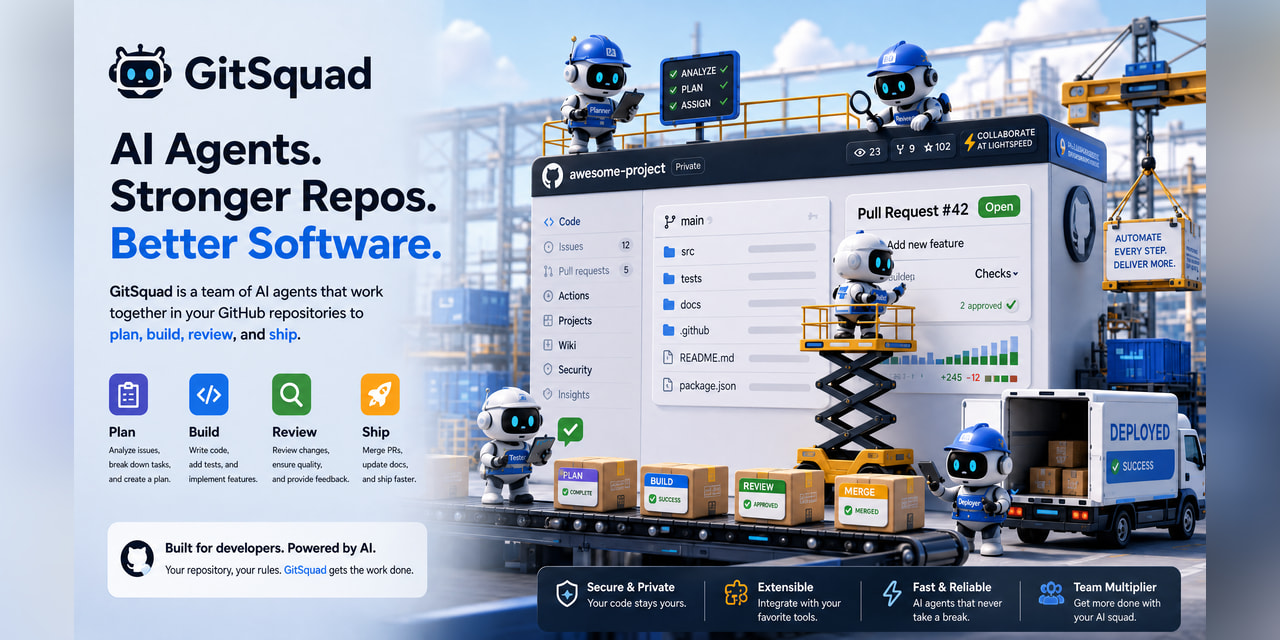
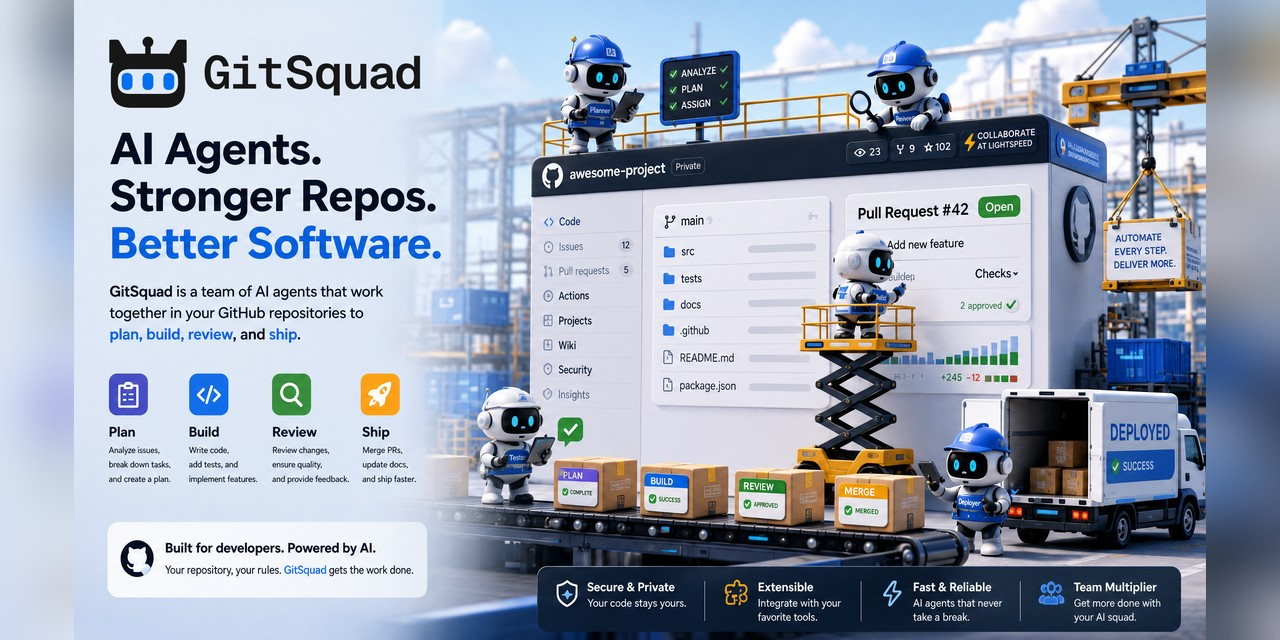
feat(web): a drawn squad-head mark that survives the tab bar
## Why

The only brand mark was web/app/favicon.ico: a 32 px robot head drawn with a
white outline, a gradient visor and cyan eyes. It had no vector master, it
mushed below 24 px, and two of its colours were ones DESIGN.md does not have —
the system is ink plus one blue, and it says in as many words that no sixth
accent may be introduced.

## What changed

- `components/gitsquad-mark.tsx` draws the mark inline: one path for the head,
  one for the three marks in the visor. The head takes `currentColor` and the
  marks take `fill-link`, so the mark follows the text colour around it and
  flips with the theme: ink and blue on light, near-white and the lifted blue on
  dark. One asset covers every ground, including the pinned-dark footer.
- The geometry was chosen against 16 / 20 / 32 px renders rather than on a wall.
  The visor stays a hole, the three marks stay legible as blue at 16 px, and the
  fins and ball antenna degrade to nubs. Rejected on the way: round-tipped horn
  "ears" (they read as cat ears), a hard hat (read as a jar), and a three-slot
  visor with no crown antenna (read as a hardware readout).
- `favicon.ico` is replaced; `icon.svg` and `apple-icon.png` are added so a
  modern browser gets the vector and iOS gets the ink tile. Both are served by
  Next as metadata routes, verified 200.
- The name is set as the identity's own device — `Git` in the mono face, `Squad`
  in the sans, one word — through `GitSquadWordmark`, shared by the marketing
[…]

diff --git a/web/components/gitsquad-mark.tsx b/web/components/gitsquad-mark.tsx
@@ -1,0 +1,55 @@
+// The GitSquad mark — a robot head whose visor holds three marks, the squad.
+//
+// One path per colour, both filled: no strokes, no masks, no filters, so it
+// stays crisp at 16 px and never needs a raster. The head draws in
+// `currentColor` and the three marks take the link token, which is what makes
+// the mark follow the theme the way every other token in the system does —
+// ink with a blue visor on light, near-white with a lifted blue on dark.
+//
+// Decorative by default: it always sits beside the name, so the accessible name
+// belongs to that text. Pass `title` only for a standalone use.
+//
+// The viewBox is the mark's own ink (28 28 200 184), not the masters' padded
+// 256 square, so `size-*` is the mark and the box has no hidden margin to guess
+// at — the same framing `app/icon.svg` uses. In a lockup the symbol reads at
+// 2.17 × the wordmark's cap height; at 20 px that is a `size-6` mark beside
+// 14 px text.
+//
+// Geometry is generated — see docs/brand/wip/heads.py and kitgen.py; the
+// delivered masters are docs/brand/kit/gitsquad-symbol-*.svg.
+const HEAD =
+  "M 32.0 124.0 Q 32.0 72.0 84.0 72.0 L 172.0 72.0 Q 224.0 72.0 224.0 124.0 L 224.0 160.0 Q 224.0 212.0 172.0 212.0 L 84.0 212.0 Q 32.0 212.0 32.0 160.0 Z M 84.6 92.5 Q 86.6 96.0 82.6 96.0 L 32.0 96.0 Q 28.0 96.0 28.0 92.0 L 28.0 40.0 Q 28.0 36.0 32.0 36.0 L 48.0 36.0 Q 52.0 36.0 54.0 39.5 Z M 202.0 39.5 Q 204.0 36.0 208.0 36.0 L 224.0 36.0 Q 228.0 36.0 228.0 40.0 L 228.0 92.0 Q 228.0 96.0 224.0 96.0 L 173.4 96.0 Q 169.4 96.0 171.4 92.5 Z M 114.0 42.0 A 14.0 14.0 0 0 1 128.0 28.0 A 14.0 14.0 0 0 1 142.0 42.0 A 14.0 14.0 0 0 1 128.0 56.0 A 14.0 14.0 0 0 1 114.0 42.0 Z M 121.0 57.0 Q 121.0 52.0 126.0 52.0 L 130.0 52.0 Q 135.0 52.0 135.0 57.0 L 135.0 77.0 Q 135.0 82.0 130.0 82.0 L 126.0 82.0 Q 121.0 82.0 121.0 77.0 Z M 50.0 147.2 Q 50.0 176.0 78.8 176.0 L 177.2 176.0 Q 206.0 176.0 206.0 147.2 L 206.0 140.8 Q 206.0 112.0 177.2 112.0 L 78.8 112.0 Q 50.0 112.0 50.0 140.8 Z";
+const MARKS =
+  "M 60.0 136.0 Q 60.0 122.0 74.0 122.0 L 74.0 122.0 Q 88.0 122.0 88.0 136.0 L 88.0 152.0 Q 88.0 166.0 74.0 166.0 L 74.0 166.0 Q 60.0 166.0 60.0 152.0 Z M 114.0 136.0 Q 114.0 122.0 128.0 122.0 L 128.0 122.0 Q 142.0 122.0 142.0 136.0 L 142.0 152.0 Q 142.0 166.0 128.0 166.0 L 128.0 166.0 Q 114.0 166.0 114.0 152.0 Z M 168.0 136.0 Q 168.0 122.0 182.0 122.0 L 182.0 122.0 Q 196.0 122.0 196.0 136.0 L 196.0 152.0 Q 196.0 166.0 182.0 166.0 L 182.0 166.0 Q 168.0 166.0 168.0 152.0 Z";
+
+export function GitSquadMark({
+  className,
+  title,
+}: {
+  className?: string;
+  title?: string;
+}) {
+  return (
+    <svg
+      viewBox="28 28 200 184"
+      className={className}
+      role={title ? "img" : undefined}
+      aria-label={title}
+      aria-hidden={title ? undefined : true}
+    >
+      {title ? <title>{title}</title> : null}
+      <path fill="currentColor" d={HEAD} />
+      <path className="fill-link" d={MARKS} />
+    </svg>
+  );
+}
+
+// The name, set as the identity's wordmark rather than as three words of copy:
+// `Git` is the machine's voice and takes the mono face, `Squad` is the team's
+// and stays in the sans. One word, so the two halves live in one element —
+// wherever this sits in a `gap-*` flex row, the gap must not fall between them.
+export function GitSquadWordmark() {
+  return (
+    <span><span className="font-mono">Git</span>Squad</span>
+  );
+}

diff --git a/web/app/(app)/layout.tsx b/web/app/(app)/layout.tsx
@@ -2,13 +2,13 @@
 
 import { useEffect, useState, useCallback, useRef, useSyncExternalStore } from "react";
 import { useRouter, usePathname } from "next/navigation";
-import Image from "next/image";
 import { ChevronsUpDown, Plus, Check } from "lucide-react";
 import { api, Workspace } from "@/lib/api";
 import { useApi } from "@/lib/query";
 import { RealtimeProvider } from "@/lib/realtime";
 import { paths, workspaceSlugFromPath } from "@/lib/paths";
 import { WorkspaceAvatar } from "@/components/workspace-avatar";
+import { GitSquadMark } from "@/components/gitsquad-mark";
 import { SidebarNav } from "@/components/sidebar-nav";
 import { NavSearchTrigger } from "@/components/nav-search-trigger";
 import { AccountMenu } from "@/components/account-menu";
@@ -193,7 +193,7 @@ export default function ConsoleLayout({ children }: { children: React.ReactNode 
                 </>
               ) : (
                 <>
-                  <Image src="/favicon.ico" alt="GitSquad" width={20} height={20} className="size-5 rounded-sm" />
+                  <GitSquadMark className="size-6" />
                   <span className="min-w-0 flex-1 text-copy font-semibold tracking-tight">GitSquad</span>
                 </>
               )}

diff --git a/web/components/marketing/landing-nav.tsx b/web/components/marketing/landing-nav.tsx
@@ -1,11 +1,11 @@
 "use client";
 
 import { useState } from "react";
-import Image from "next/image";
 import Link from "next/link";
 
 import { AuthButton } from "@/components/auth-button";
 import { GitHubMark } from "@/components/github-mark";
+import { GitSquadMark, GitSquadWordmark } from "@/components/gitsquad-mark";
 import { LoginModal } from "@/components/login-modal";
 import { ThemeToggle } from "@/components/theme-toggle";
 import { anchors, links } from "./links";
@@ -30,15 +30,8 @@ export function LandingNav() {
     <header className="sticky top-0 z-40 border-b border-hairline bg-canvas/80 backdrop-blur">
       <div className="mx-auto flex h-16 max-w-[1200px] items-center justify-between gap-6 px-6">
         <Link href="/" className="flex shrink-0 items-center gap-2 text-copy font-semibold text-ink">
-          <Image
-            src="/favicon.ico"
-            alt="GitSquad logo"
-            width={20}
-            height={20}
-            className="size-5 rounded-sm"
-            priority
-          />
-          GitSquad
+          <GitSquadMark className="size-6" />
+          <GitSquadWordmark />
         </Link>
 
         <nav className="hidden items-center gap-1 md:flex">

diff --git a/web/app/(auth)/daemon/auth/page.tsx b/web/app/(auth)/daemon/auth/page.tsx
@@ -1,11 +1,11 @@
 "use client";
 
-import Image from "next/image";
 import Link from "next/link";
 import { useSearchParams, useRouter } from "next/navigation";
 import { Suspense, useEffect, useState } from "react";
 import { Check, Loader2, ArrowRight } from "lucide-react";
 import { Avatar, AvatarFallback, AvatarImage } from "@/components/ui/avatar";
+import { GitSquadMark } from "@/components/gitsquad-mark";
 import { api } from "@/lib/api";
 
 function DaemonAuthContent() {
@@ -78,7 +78,7 @@ function DaemonAuthContent() {
             </Avatar>
             <ArrowRight className="size-5 text-hairline-strong" />
             <div className="flex size-14 items-center justify-center rounded-md bg-muted ring-2 ring-hairline ring-offset-2 ring-offset-canvas-soft-2">
-              <Image src="/favicon.ico" alt="GitSquad" width={28} height={28} className="size-7" />
+              <GitSquadMark className="size-8" />
             </div>
           </div>
           <h1 className="text-center text-xl font-semibold tracking-[-0.04em] text-ink">Device Activation</h1>

diff --git a/web/components/marketing/landing-footer.tsx b/web/components/marketing/landing-footer.tsx
@@ -1,4 +1,4 @@
-import Image from "next/image";
+import { GitSquadMark, GitSquadWordmark } from "@/components/gitsquad-mark";
 
 import { anchors, links } from "./links";
 
@@ -48,14 +48,8 @@ export function LandingFooter() {
         <div className="grid gap-10 md:grid-cols-[1.4fr_1fr_1fr_1fr]">
           <div>
             <div className="flex items-center gap-2 text-copy font-semibold text-ink">
-              <Image
-                src="/favicon.ico"
-                alt=""
-                width={20}
-                height={20}
-                className="size-5 rounded-sm"
-              />
-              GitSquad
+              <GitSquadMark className="size-6" />
+              <GitSquadWordmark />
             </div>
             <p className="mt-3 max-w-xs text-copy leading-6 text-body">
               Your autonomous developer team on GitHub. Open source under

diff --git a/web/components/login-modal.tsx b/web/components/login-modal.tsx
@@ -2,7 +2,7 @@
 
 import { useEffect, useCallback } from "react";
 import { X } from "lucide-react";
-import Image from "next/image";
+import { GitSquadMark } from "@/components/gitsquad-mark";
 
 const API_URL = process.env.NEXT_PUBLIC_API_URL || "http://localhost:8080";
 
@@ -57,14 +57,7 @@ export function LoginModal({ mode, open, onClose, error, returnURL }: LoginModal
     <div className="flex flex-col items-center text-center">
       {/* Logo */}
       <div className="mb-6 flex size-14 items-center justify-center rounded-md border border-hairline bg-canvas shadow-level-2">
-        <Image
-          src="/favicon.ico"
-          alt="GitSquad"
-          width={48}
-          height={48}
-          className="size-11 rounded-sm"
-          priority
-        />
+        <GitSquadMark className="size-11" />
       </div>
 
       {/* Heading */}
